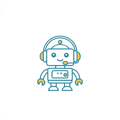
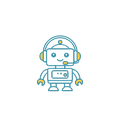
fix: ここロボちゃんアイコン 白背景透過・サイズ拡大(44→54px)

diff --git a/chat-widget.js b/chat-widget.js
@@ -288,7 +288,7 @@
   const btn = document.createElement('button');
   btn.id = 'cocoro-widget-btn';
   btn.setAttribute('aria-label', 'ココロボちゃんに相談する');
-  btn.innerHTML = '<img src="/images/cocorobot.png" alt="ここロボちゃん" style="width:44px;height:44px;object-fit:contain;"><span class="cocoro-badge"></span>';
+  btn.innerHTML = '<img src="/images/cocorobot.png" alt="ここロボちゃん" style="width:54px;height:54px;object-fit:contain;"><span class="cocoro-badge"></span>';
 
   const panel = document.createElement('div');
   panel.id = 'cocoro-chat-panel';
